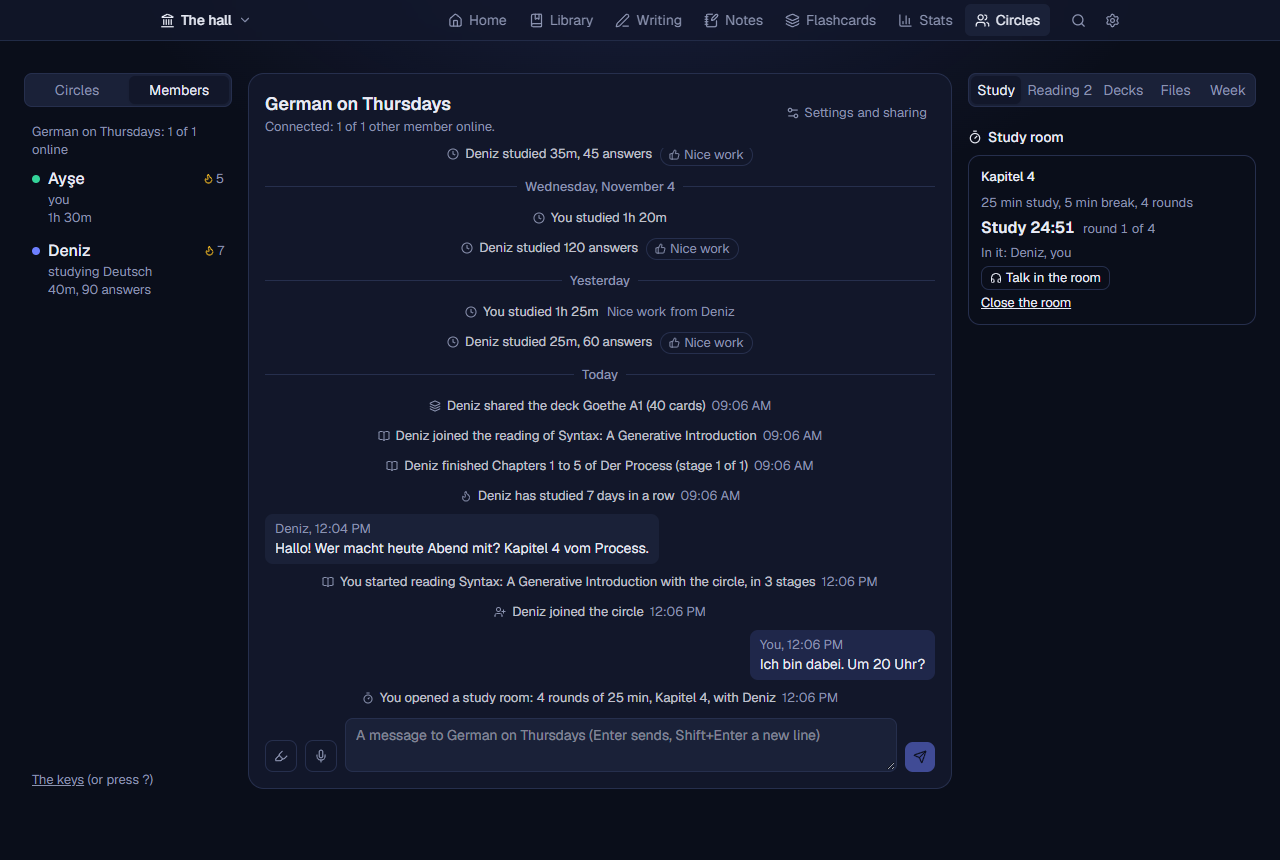
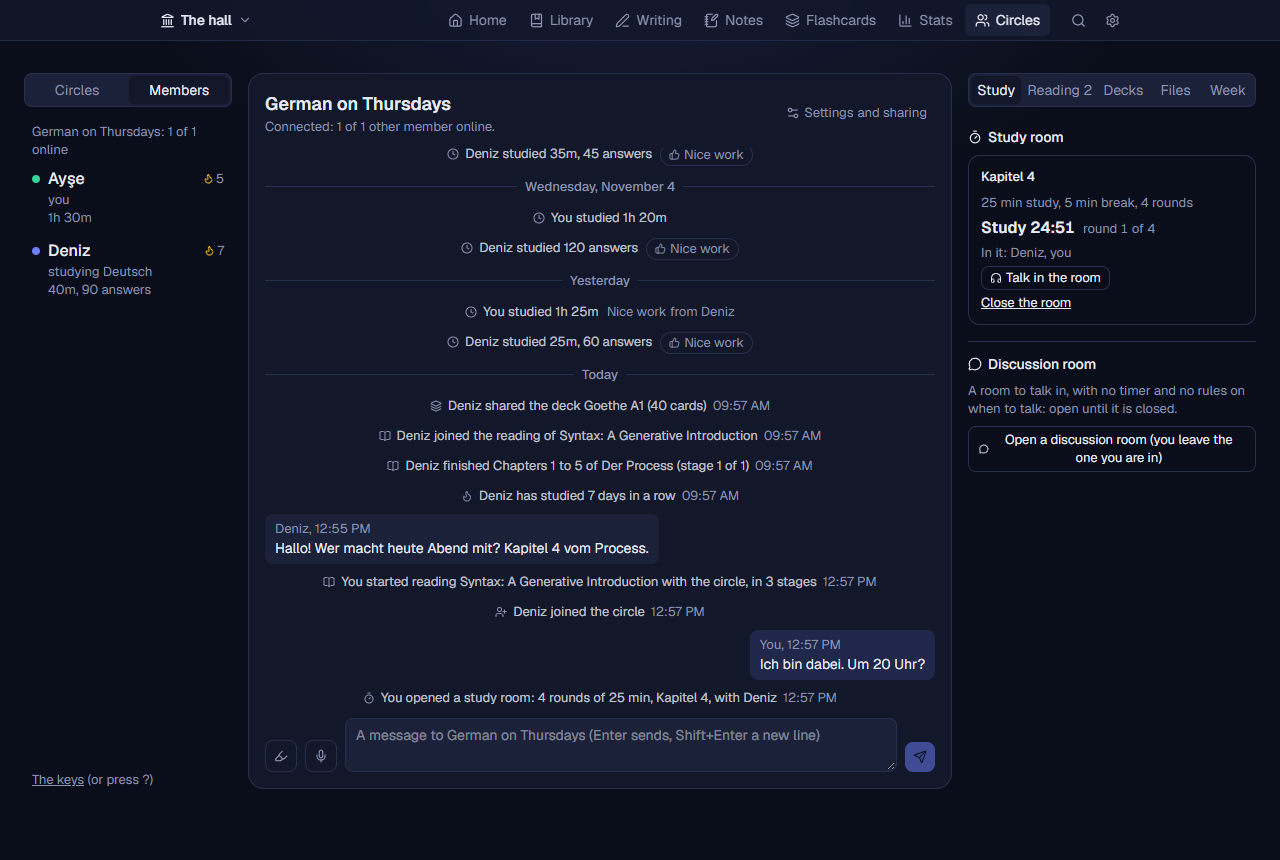
Update the site

diff --git a/docs/manual.html b/docs/manual.html
@@ -23,7 +23,7 @@
   </header>
 
   <h1>The full user manual</h1>
-  <p class="lead">Everything Voynich does, part by part. New here? Start with <a href="guide.html">Getting started in ten minutes</a>. This manual describes version 0.65.0; later versions may add things, and Settings, About and updates lists what changed.</p>
+  <p class="lead">Everything Voynich does, part by part. New here? Start with <a href="guide.html">Getting started in ten minutes</a>. This manual describes version 0.66.0; later versions may add things, and Settings, About and updates lists what changed.</p>
 
   <div class="layout">
     <nav class="toc" aria-label="Contents">
@@ -612,6 +612,7 @@
         <p>Each circle has a <strong>Chat</strong> (the hall, <em>Circles</em>, under the circle): write and press Enter (Shift+Enter for a new line). The <strong>microphone</strong> button beside it records a <strong>voice message</strong> of up to two minutes: a red sign says the microphone is on until you press <em>Stop</em>; then you listen to it, and <em>Send</em> or <em>Throw away</em>. Nothing goes before Send. Every member&rsquo;s Voynich gets the recording from whoever has it (a member who was away gets it later) and keeps it as long as the circle keeps its messages; members on an older Voynich see a line saying it is a voice message. A phone opens Voynich over plain http, which browsers give no microphone, so record on the computer (the phone plays them). Every member&rsquo;s Voynich keeps the messages for as long as the circle&rsquo;s maker chose (a week, 30 days, a year or for good; 30 days unless they change it), and members who were away get them from whoever is online when they come back. A message is signed by its writer, so nobody can write in someone else&rsquo;s name, and it cannot be taken back once sent. <em>new</em> beside Chat means something arrived since you last looked.</p>
         <p>The <strong>Study room</strong> is for studying together: one member presses <em>Open a study room</em> (25 minutes of study and a 5-minute break unless you change them, as many rounds as you like, starting now or in a few minutes), and the others press <strong>Join</strong>. Everyone in it sees the same countdown (worked out from the same start, so nothing has to keep it in step), and hears a short tone when a round or a break begins. The one who opened it closes it; it closes by itself an hour after its last round. And while your timer runs in a room you share with a circle, the circle sees &ldquo;studying now&rdquo; beside your name, with that room&rsquo;s name and since when.</p>
         <p id="room-talk"><strong>Talking in the room.</strong> In a study room you are in, <em>Talk in the room</em> lets its members talk to each other, over the circle, member to member. <strong>Hold to talk</strong> (the button, or hold <kbd>V</kbd> when you are not typing), or tick <em>Microphone open</em>; a red sign says whenever the microphone is on, and it is let go ten seconds after you stop. Beside each member is a sign while they talk and a button to mute them. You can talk in the breaks (and before the first round); whoever opens the room can tick <em>Let us talk while studying too</em>. Use headphones, or the others may hear themselves. Nothing of the talk is recorded or kept. It needs Chrome, Edge or Brave (the browser&rsquo;s own Opus encoder), and everyone in the room on Voynich 0.65 or later; a phone can join once it opens Voynich over HTTPS, which is not ready yet.</p>
+        <p id="discussion-room"><strong>The discussion room.</strong> Under the study room, in the same tab, <em>Open a discussion room</em> (with a name if you like) opens a room with no countdown and no rounds, where everyone in it may talk at any time, with the same <em>Talk in the room</em>. The others press <strong>Join</strong>; whoever opened it closes it, and it closes by itself after a day. You are in one room at a time: joining a discussion room leaves a study room, and the other way round. A member on Voynich 0.65 sees it as a long study room in which they may talk; on an older Voynich, as a long study room.</p>
         <p>How it sounds: in a test network with homes 30 ms apart, the voice took about 50 ms from one member to another, or 80 ms through a member who relays; on lines that lose packets the circle resends them, so Voynich waits up to a quarter of a second before playing when it has to, and nothing came too late even with 5% lost. Real homes have not been measured yet.</p>
         <h3>Removing someone, and leaving</h3>
         <p>Only the person who made the circle can remove a member (the bin button beside them). The circle then gets a new key and a new invite code, which the removed member never receives, so their Voynich can no longer connect to it, and it is told it was removed. Members who were away get the new key from the first member they meet. What someone already saw stays with them. <strong>Leave</strong> (with the circle&rsquo;s name, inside it) removes that circle from your Voynich and tells its members; your other circles go on; if you made it, it goes on for them, but nobody can remove anyone from it any more.</p>
